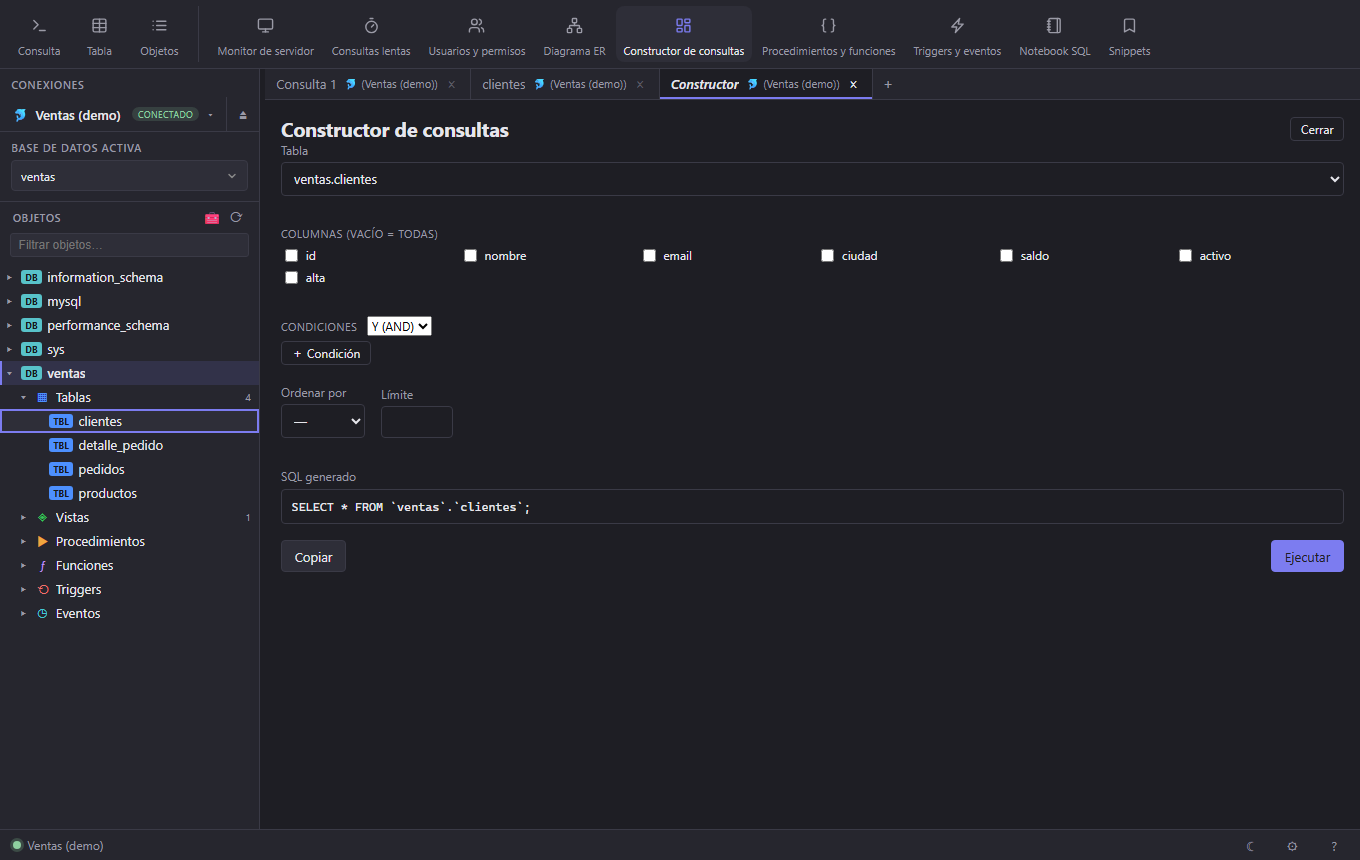
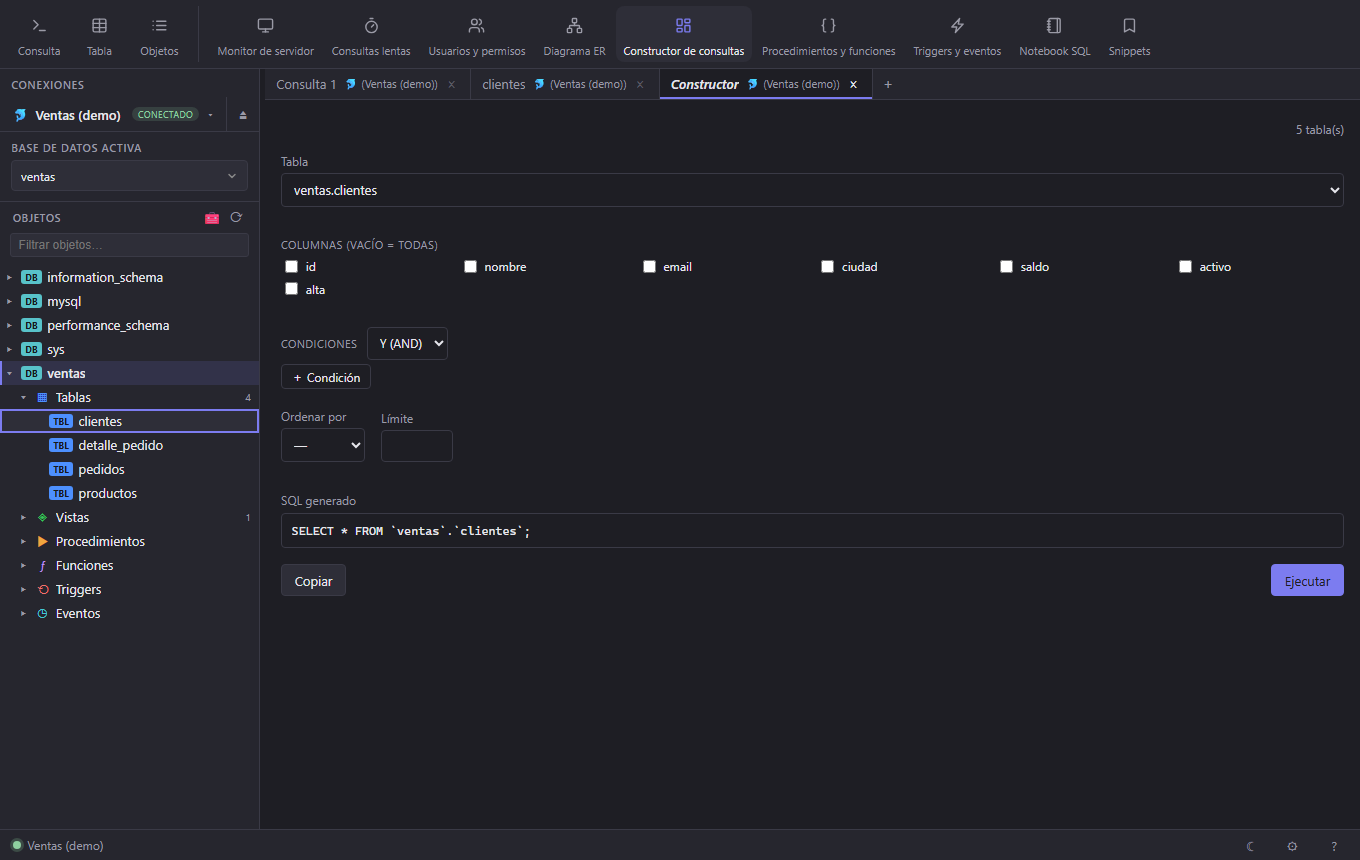
chore(release): v0.13.0, the tools finally look like one app (#378)
Minor: four changes that all came from the same report — every option in the
ribbon felt like a feature built by a different person.

- Every tool panel wears the same bar. Twelve of them hand-rolled a header, and
  seven repeated the title and the close the TAB already carries; those are
  gone, and refresh became one icon button the shell draws (#372, #373).
- One field vocabulary inside the panels: fifteen selects and inputs carried no
  class at all and rendered with the operating system's look, which is why the
  query builder read as a foreign dialog (#374).
- The server monitor and slow queries run on the result grid instead of their
  own table, so they arrive with type chips, per-column filters and keyboard
  selection; their per-row buttons became bar actions over the selected row
  (#375).
- The routine and trigger explorers gained a search box, and the trigger one
  searches by table as well as by name (#376, #377).

Screenshots regenerated: the monitor is a different panel now. The media spec
closed each tool with a "Cerrar" button that no longer exists — it presses
Escape, which is what closes a panel.

diff --git a/frontend/e2e/media/screenshots.spec.ts b/frontend/e2e/media/screenshots.spec.ts
@@ -138,7 +138,9 @@ test("capture the published screenshots", async ({ page }) => {
         .click();
       await expect(page.getByText(ready).first()).toBeVisible({ timeout: 30_000 });
       await shot(file);
-      await page.getByRole("button", { name: "Cerrar", exact: true }).click();
+      // Escape, not a "Cerrar" button: the panels stopped printing one when the
+      // tab's own ✕ became the only close (#372).
+      await page.keyboard.press("Escape");
     }
 
     // 8. The chart view, which needs a result to chart: run a query, then chart it.
